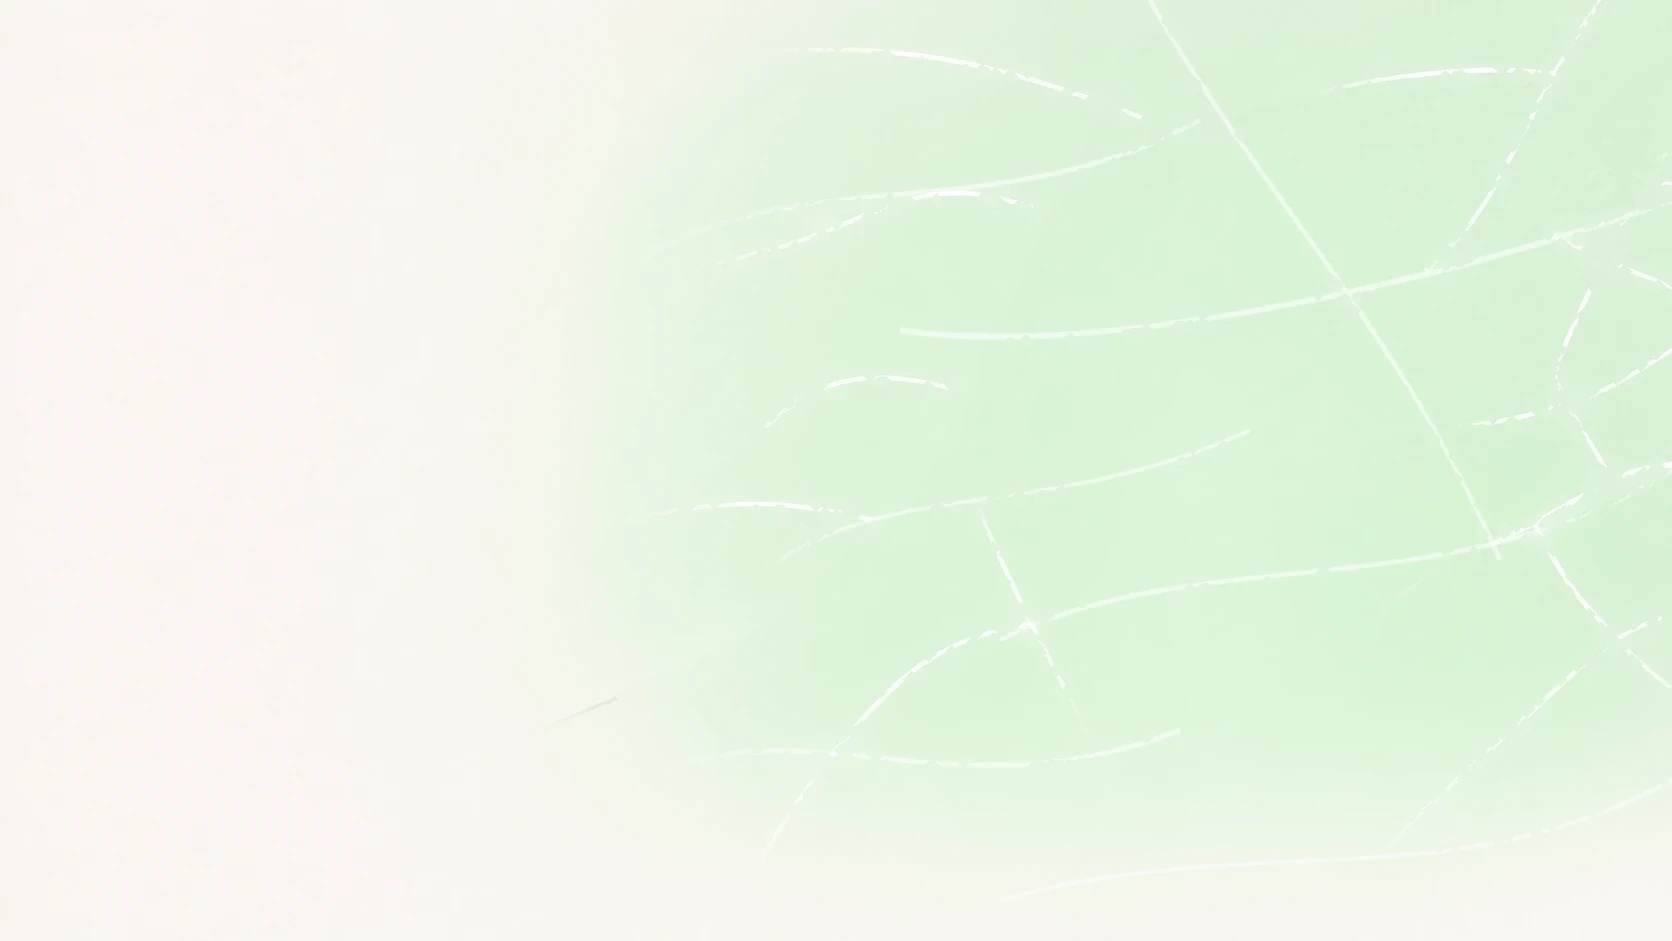
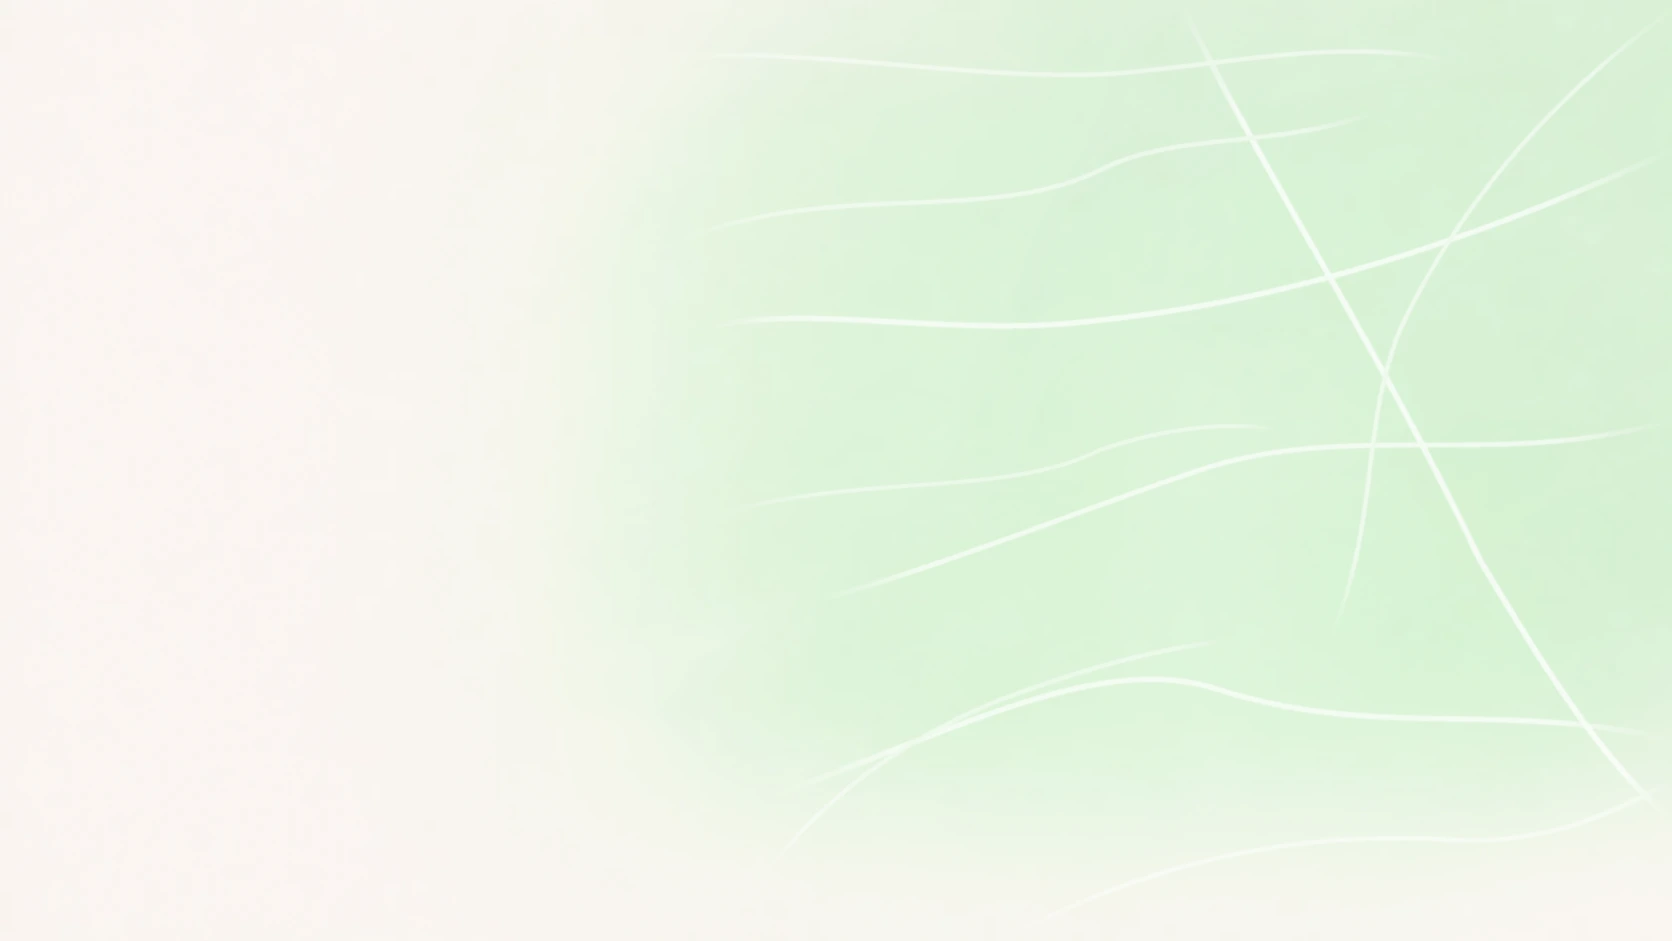
Engaged Employees: rebuild background with continuous white lines

diff --git a/styles.css b/styles.css
@@ -1351,7 +1351,7 @@ a:focus-visible,button:focus-visible{outline:2px solid var(--brand-green);outlin
 .engaged .ee-card{background:url(assets/engaged-bg.svg) center/cover no-repeat,#fbf8f3}
 
 /* ---- Engaged Employees: new map background image ---- */
-.engaged .ee-card{background:url(assets/engaged-bg.webp?v=3) right center/cover no-repeat,#faf6f2}
+.engaged .ee-card{background:url(assets/engaged-bg.webp?v=4) right center/cover no-repeat,#faf6f2}
 
 /* ---- Engaged Employees: now a single designed image ---- */
 .engaged.engaged--image{padding:0 0 72px;background:none}

diff --git a/index.html b/index.html
@@ -11,7 +11,7 @@
 <link rel="preconnect" href="https://fonts.googleapis.com">
 <link rel="preconnect" href="https://fonts.gstatic.com" crossorigin>
 <link href="https://fonts.googleapis.com/css2?family=Caveat&family=Instrument+Sans:wght@400;500;600;700&display=swap" rel="stylesheet">
-<link rel="stylesheet" href="styles.css?v=20261126g">
+<link rel="stylesheet" href="styles.css?v=20261126h">
 </head>
 <body>
 <div class="page">
